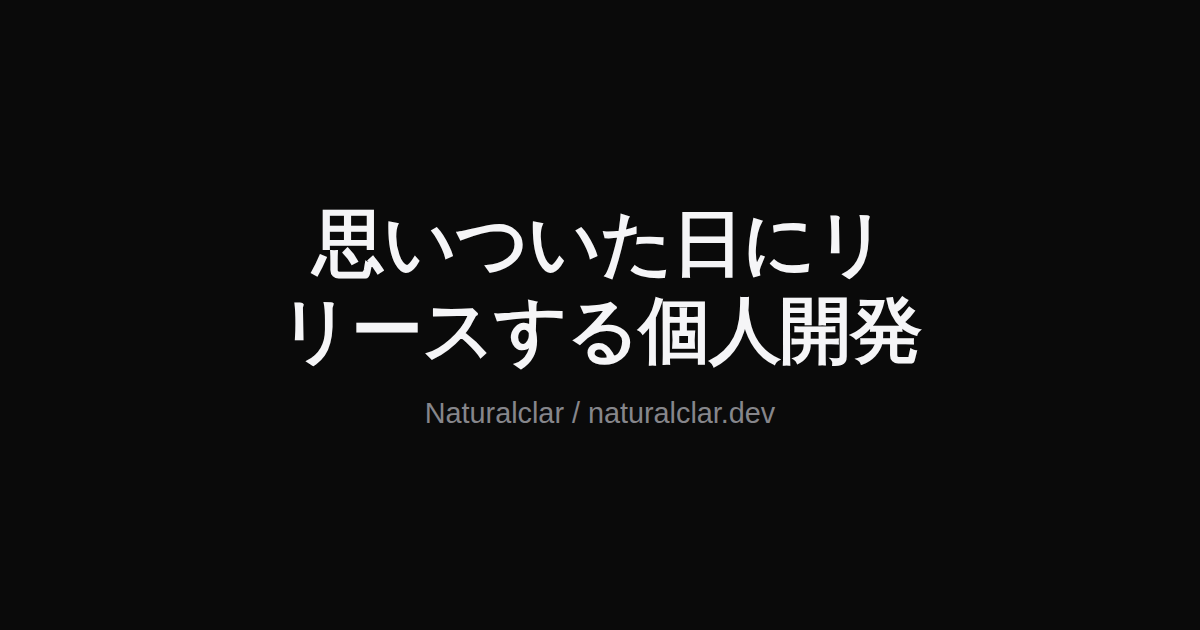
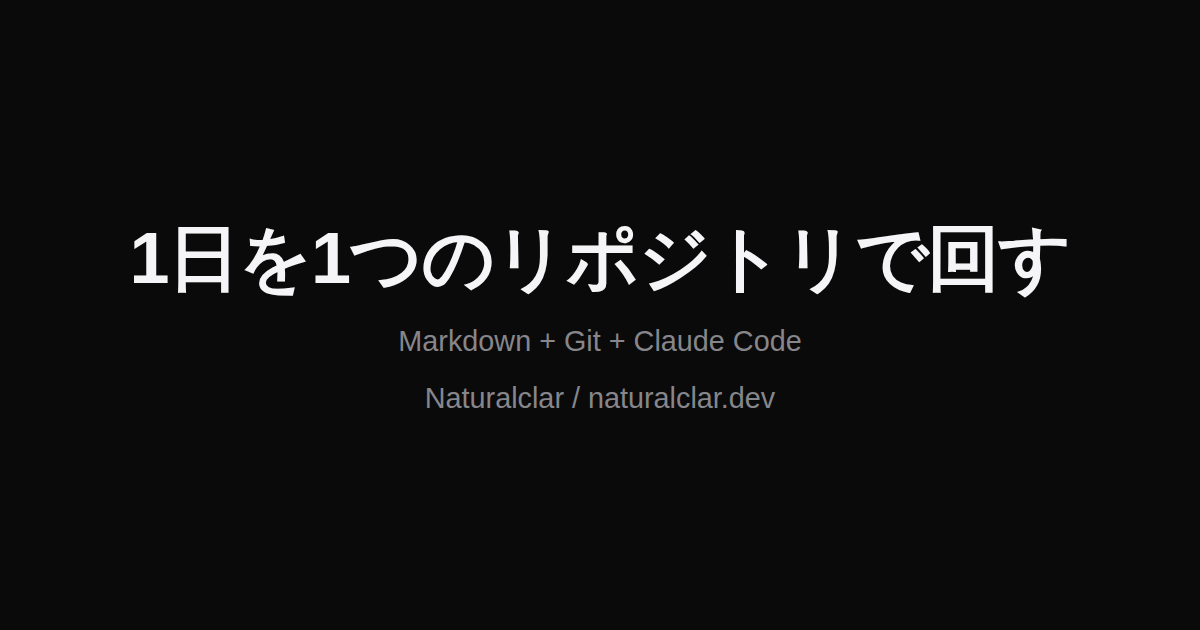
Replace the deck with the kanban-operations talk
Swaps the Ginza.js #11 content from the medley-generator talk
(「思いついた日にリリースする個人開発」) to the new script: running a day out of
one Markdown + Git + Claude Code repo, in 11 sections instead of 10.

Slide wording is taken from the script verbatim. The notes keep what the old
ones carried — wall-clock timings, contingencies, and the cut order — with the
new spine marked: the demo and the three-failures slide are never cut, and the
spinoff slide is not cut either but is held to 30 seconds.

index.html's title and OGP text follow the new title, and public/ogp.png is
regenerated, since the card is a screenshot of slide 1 and would otherwise
advertise the old talk.

Verified against the script's acceptance criteria in a real browser: 11 sections
and 11 dots, fade-in on entering view, keyboard and scroll both driving
navigation, n and d toggles, print producing 11 pages, and no external requests
from the built deck.

Claude-Session: https://claude.ai/code/session_01Aqs5Ldf61pQp8oXZ7hrNXo

Changed region(s): [[0.0925, 0.3317, 0.8942, 0.6937]]

diff --git a/src/sections.tsx b/src/sections.tsx
@@ -16,7 +16,8 @@ export const sections: Section[] = [
     id: "title",
     content: (
       <>
-        <h1>思いついた日にリリースする個人開発</h1>
+        <h1>1日を1つのリポジトリで回す</h1>
+        <p className="sub">Markdown + Git + Claude Code</p>
         <p className="subtitle">Naturalclar / naturalclar.dev</p>
         <div className="scroll-hint" aria-hidden="true">
           <span className="arrow-down" />
@@ -26,18 +27,14 @@ export const sections: Section[] = [
     note: "タイトル。名乗って即次へ",
   },
   {
-    id: "hook",
-    content: (
-      <h1>配信で毎回、次に何を弾くか迷っていた</h1>
-    ),
-    note: "0:00\u20130:30 つかみ。長引かせない。共感を1つ取れれば十分",
+    id: "struggle",
+    content: <h1>タスク管理、何度も挫折した</h1>,
+    note: "0:00–0:30 つかみ。アプリを転々とした話は言わない、「挫折した」の一言で共感を取って次へ",
   },
   {
     id: "demo",
-    content: (
-      <h1>デモ</h1>
-    ),
-    note: "0:30\u20132:00 本体。\u2460生成ボタン\u2192セトリが出る \u2461もう一度\u2192違うセトリ \u2462コピーして「これを配信で使っている」。オフライン対策: ローカルcloneを開いて待機。保険: 30秒録画を別ウィンドウに",
+    content: <h1>デモ</h1>,
+    note: "0:30–2:00 本体。今日のノート（デモ用に用意したもの）を開いて、①朝: ブランチが切られノートが生成されPRが開く ②昼: 日記を書くとAIの提案が更新されコミットされる ③夜: 1日がPRごとmainにマージされ、1日=1コミットになる、を見せる。オフライン対策: ローカルで完結。保険: 30秒録画を別ウィンドウに。絶対に削らない",
   },
   {
     id: "structure",
@@ -45,42 +42,44 @@ export const sections: Section[] = [
       <>
         <h1>中身はこれだけ</h1>
         <p className="flow">
-          <code>songs.json</code> → 生成ロジック → セトリ
+          Markdown のノート → スキル（手順書）→ Git
         </p>
       </>
     ),
-    note: "デモ直後に1枚で全体像。ここで初めて構造の話",
+    note: "デモ直後に1枚で全体像。ノートはただのMarkdown、スキルはただの手順書、保存はただのgit push。特別なアプリは1つもない",
   },
   {
-    id: "no-framework",
+    id: "llm-and-scripts",
+    content: <h1>判断はLLM、書き換えは冪等なスクリプト</h1>,
+    note: "2:00–4:00 技術の芯その1。外部データ（チケット管理ツール等）との同期は、LLMが「何をすべきか」を判断し、実際のファイル書き換えは決定的で冪等なスクリプトがやる。LLMに直接ファイルを触らせない——この分担がシステムを壊さないコツ。【削る順②】押されたら詳細を落として結論だけ残す",
+  },
+  {
+    id: "failures",
+    content: <h1>失敗した話を3つ</h1>,
+    note: "4:00–6:30 技術の芯その2、絶対に削らない。①祝日を「昨日は何もしていない」と報告した（休みの日は空の日ではない）②曲名の部分一致で別の曲に当てた（「怪獣」と「怪獣の花唄」）③重複チケットを「完了」で消そうとした（重複は終わった仕事ではない、行ごと消すのが正しい）。どれも運用して初めて出た仕様バグ",
+  },
+  {
+    id: "two-weeks",
+    content: <h1>2週間で、朝の「今日何やるんだっけ」が消えた</h1>,
+    note: "6:30–7:15 後日談。毎朝の立ち上がりの摩擦がなくなった。スキルは足すたびに翌日から使える——作って終わりではなく、毎日使うものだけが残った。【削る順①】押されたら最初に削るスライド",
+  },
+  {
+    id: "spinoff",
     content: (
       <>
-        <h1>フレームワークは入っていない</h1>
-        <p className="sub">バニラ HTML + JS / GitHub Pages</p>
+        <h1>この運用から生まれたもの</h1>
+        <p className="sub">medley generator</p>
+        <ul className="links">
+          <li>smashcat.dev/medley-generator/</li>
+        </ul>
       </>
     ),
-    note: "2:00\u20134:00。「入れなかった」ではなく「要らなかった」。必要になる場面が来なかったという話にする。押されたら後半を削る",
+    note: "7:15–8:00 一例紹介。配信のセトリを自動で組むWebサービス。日記に書いた思いつきが当日デプロイまで行き、今も毎日使っている。日誌の記録がそのまま初期データになった。「運用のなかで思いつきが形になる」実例として30秒で流す。押されても削らない——30秒厳守で必ず触れる",
   },
   {
-    id: "deploy-day",
-    content: (
-      <h1>思いついた日にデプロイした</h1>
-    ),
-    note: "4:00\u20136:00。押されたら最初に削るスライド。「毎日書いていた記録が、そのまま初期データになった」が言えると強い。【削る順①】",
-  },
-  {
-    id: "three-days-later",
-    content: (
-      <h1>3日後、迷わなくなった</h1>
-    ),
-    note: "6:00\u20137:30 後日談。デモと並ぶ芯、絶対に削らない。作ったことより使い続けていることが効く",
-  },
-  {
-    id: "takeaway",
-    content: (
-      <h1>毎日困っていることを1つ潰すほうが早い</h1>
-    ),
-    note: "7:30\u20139:00 まとめ。zero JS の流れ: トレンドに乗ったのではなく、トレンドが向かっている先にたまたま先にいた。押されたら後半を削る。【削る順③】",
+    id: "operate",
+    content: <h1>完成させるな、運用しろ</h1>,
+    note: "8:00–9:00 まとめ。AIがコードを書く時代、作ること自体は安くなった。価値が残るのは、運用して初めて分かる失敗と、それを直すループを持っていること。【削る順③】押されたら後半を削る",
   },
   {
     id: "links",
@@ -88,19 +87,17 @@ export const sections: Section[] = [
       <>
         <h1 className="link-heading">リンク</h1>
         <ul className="links">
-          <li>github.com/Naturalclar/medley-generator</li>
-          <li>smashcat.dev/medley-generator/</li>
           <li>naturalclar.dev</li>
+          <li>blog.naturalclar.dev</li>
+          <li>smashcat.dev/medley-generator/</li>
         </ul>
       </>
     ),
-    note: "最後に出しっぱなし。質疑の間ずっと映す",
+    note: "最後に出しっぱなし。質疑の間ずっと映す。ブログに詳細記事を書く予定と一言",
   },
   {
     id: "qa",
-    content: (
-      <h1>質疑</h1>
-    ),
-    note: "9:00\u201310:00。想定質問: 曲データはどう増やしてる？／生成ロジックは？（弾ける曲中心+練習中を1曲）／なぜWeb？（どの端末からでも開ける）",
+    content: <h1>質疑</h1>,
+    note: "9:00–10:00。想定質問: ノートが壊れたら？（全部Gitなので戻せる）／スキルってどう書く？（Markdownの手順書、コードじゃない）／会社のタスク管理とどう繋いでる？（読み取り同期のみ・書き込みは慎重に）／料金は？",
   },
 ];

diff --git a/index.html b/index.html
@@ -3,10 +3,10 @@
   <head>
     <meta charset="UTF-8" />
     <meta name="viewport" content="width=device-width, initial-scale=1.0" />
-    <title>思いついた日にリリースする個人開発 - Ginza.js #11</title>
+    <title>1日を1つのリポジトリで回す - Ginza.js #11</title>
     <meta
       name="description"
-      content="Ginza.js #11 の発表スライド。配信で次に弾く曲に毎回迷っていた話から、思いついた日にデプロイして、3日後には迷わなくなるまで。"
+      content="Ginza.js #11 の発表スライド。Markdown のノートと Claude Code のスキルと Git だけで、1日を1つのリポジトリで回している運用の話。"
     />
 
     <!-- OGP. Absolute URLs are required: crawlers do not resolve relative
@@ -18,11 +18,11 @@
     />
     <meta
       property="og:title"
-      content="思いついた日にリリースする個人開発 - Ginza.js #11"
+      content="1日を1つのリポジトリで回す - Ginza.js #11"
     />
     <meta
       property="og:description"
-      content="Ginza.js #11 の発表スライド。配信で次に弾く曲に毎回迷っていた話から、思いついた日にデプロイして、3日後には迷わなくなるまで。"
+      content="Ginza.js #11 の発表スライド。Markdown のノートと Claude Code のスキルと Git だけで、1日を1つのリポジトリで回している運用の話。"
     />
     <meta
       property="og:image"

diff --git a/CLAUDE.md b/CLAUDE.md
@@ -5,8 +5,13 @@ This file provides guidance to Claude Code (claude.ai/code) when working with co
 ## What this is
 
 A single-deck slide presentation for Ginza.js #11 — a 10-minute Japanese-language talk titled
-「思いついた日にリリースする個人開発」. It is not a slide *framework*; it is one specific talk built as a
-Vite + React 19 SPA. All slide content lives in the repo as JSX, not in Markdown or a CMS.
+「1日を1つのリポジトリで回す」, about running a day out of one Markdown + Git + Claude Code repo. It is
+not a slide *framework*; it is one specific talk built as a Vite + React 19 SPA. All slide content
+lives in the repo as JSX, not in Markdown or a CMS.
+
+The wording on the slides comes from an external script and is authoritative — adjust presentation,
+not copy. The deck must also stay publishable: no employer names, ticket IDs, listener names, or
+other private details belong in it.
 
 ## Commands
 
@@ -75,7 +80,8 @@ check it when adding fixed-position or animated elements.
 The `note` field is not decoration. It carries the presenter's live script: wall-clock timings
 for a 10-minute slot (`0:30–2:00`), contingency instructions, and an explicit cut order
 (【削る順①】…) marking which slides get dropped if the talk runs long. Preserve that information
-when editing a note; the demo slide and the 「3日後、迷わなくなった」 slide are marked as never-cut.
+when editing a note. The demo slide and the 「失敗した話を3つ」 slide are the talk's spine and are
+marked never-cut; 「この運用から生まれたもの」 is not cut either, but is held to 30 seconds.
 
 Content is Japanese. `index.html` sets `lang="ja"` and the font stack in `styles.css` includes
 CJK families — keep both in place. Notes use `–`/`—` escapes for en/em dashes; matching
